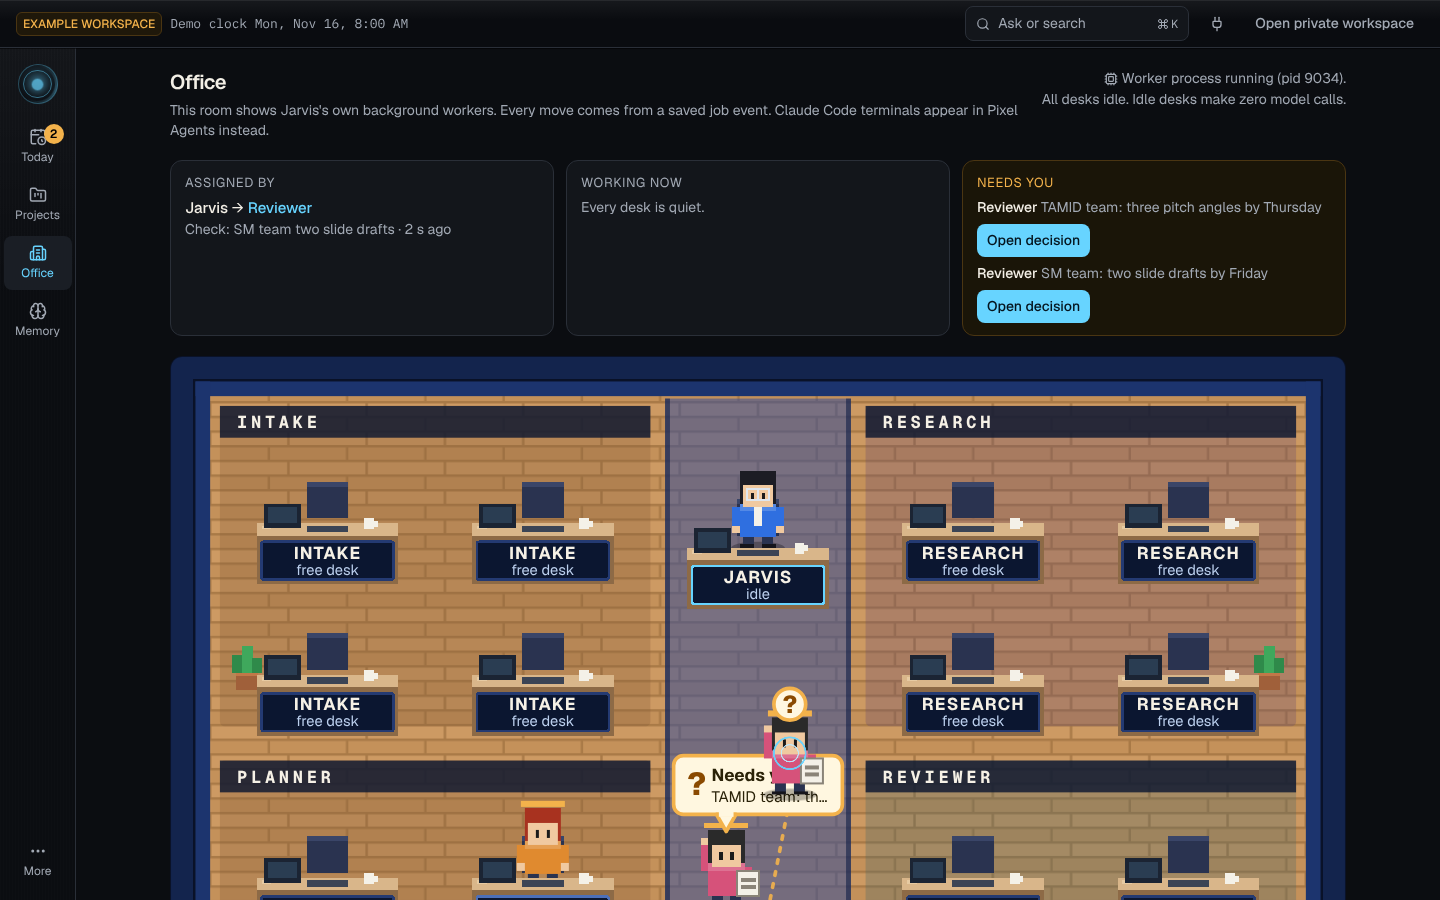
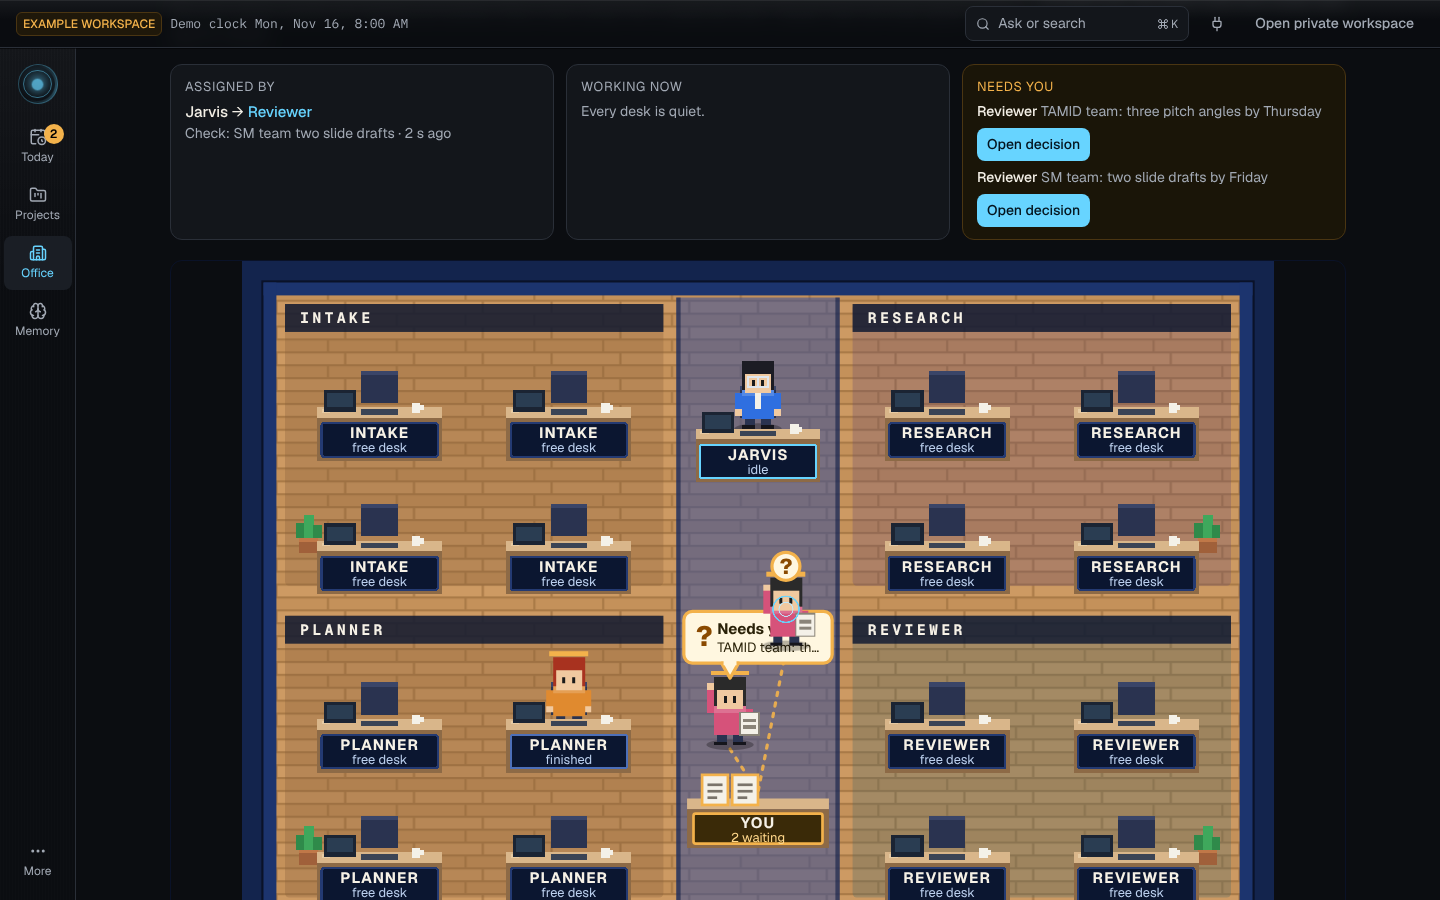
Office fits the viewport, outcome wording, redesign notes, MORNING handoff, before/after and size screenshots
Claude-Session: https://claude.ai/code/session_01LVTA14dv2q5dUimpnS7hsM

diff --git a/src/lib/outcomes.ts b/src/lib/outcomes.ts
@@ -4,6 +4,7 @@ import { Ctx, all, get } from "./db";
 
 export interface Outcome { id: string; at: string; source: "agent" | "claude" | "you" | "task"; status: "verified" | "waiting" | "done" | "failed" | "cancelled"; goal: string; result: string; receipt: string | null; href: string }
 
+const PHRASE: Record<string, string> = { decide: "decided", option: "option for", fact: "noted", action: "to do:", question: "open question:", retract: "withdrew" };
 export function outcomes(ctx: Ctx, limit = 20): Outcome[] {
   const out: Outcome[] = [];
   for (const j of all(ctx.db, "SELECT * FROM jobs WHERE owner_id=? AND parent_id IS NULL AND status IN ('done','failed','cancelled','blocked') ORDER BY COALESCE(finished_at, created_at) DESC LIMIT ?", ctx.owner, limit)) {
@@ -24,7 +25,7 @@ export function outcomes(ctx: Ctx, limit = 20): Outcome[] {
   }
   for (const e of all(ctx.db, "SELECT e.event_id, e.origin, e.at, e.resulting_revision rev, e.receipt, p.name, p.id pid FROM project_events e JOIN projects p ON p.id=e.project_id WHERE e.owner_id=? AND e.undone_at IS NULL ORDER BY e.at DESC LIMIT ?", ctx.owner, limit)) {
     const r = JSON.parse(e.receipt as string); const n = (r.changes ?? []).filter((c: any) => c.status !== "retracted").length;
-    out.push({ id: e.event_id as string, at: e.at as string, source: e.origin === "claude" ? "claude" : "you", status: "done", goal: `${e.name}`, result: `${e.origin === "claude" ? "Updated from Claude" : "Edited in Jarvis"}: ${r.changes.map((c: any) => `${c.op} ${String(c.key).replace(/-/g, " ")}`).join(", ")}.`, receipt: `Revision ${e.rev}, ${n} change${n === 1 ? "" : "s"}`, href: `/projects/${e.pid}` });
+    out.push({ id: e.event_id as string, at: e.at as string, source: e.origin === "claude" ? "claude" : "you", status: "done", goal: `${e.name}`, result: `${e.origin === "claude" ? "" : "Edited in Jarvis: "}${r.changes.map((c: any) => `${PHRASE[c.op] ?? c.op} ${String(c.key).replace(/-/g, " ")}`).join(", ")}.`.replace(/^./, (c: string) => c.toUpperCase()), receipt: `Revision ${e.rev}, ${n} change${n === 1 ? "" : "s"}`, href: `/projects/${e.pid}` });
   }
   for (const t of all(ctx.db, "SELECT id,title,completed_at FROM tasks WHERE owner_id=? AND status='done' AND completed_at IS NOT NULL ORDER BY completed_at DESC LIMIT ?", ctx.owner, limit))
     out.push({ id: t.id as string, at: t.completed_at as string, source: "task", status: "done", goal: String(t.title), result: "Marked done.", receipt: null, href: `/completed` });

diff --git a/src/lib/projects.ts b/src/lib/projects.ts
@@ -62,8 +62,12 @@ export function projectContext(ctx: Ctx, ref: string) {
   const options = live.filter((f) => f.status === "option"); const suggestions = live.filter((f) => f.status === "suggested");
   const history = rows.filter((f) => ["superseded", "retracted"].includes(f.status));
   const sources = all(ctx.db, "SELECT event_id, origin, client, at, resulting_revision rev FROM project_events WHERE project_id=? AND undone_at IS NULL ORDER BY at DESC, rowid DESC LIMIT 12", p.id);
-  const answer = [current.length ? `Current: ${current.map((f) => `${f.key.replace(/-/g, " ")}: ${f.text} (${f.origin}, rev ${f.revision}, ${f.asOf.slice(0, 10)})`).join("; ")}.` : "Nothing is decided yet.",
-    options.length ? `Open options: ${options.map((f) => f.text).join("; ")}.` : "", history.some((f) => f.status === "superseded" && f.kind !== "option") ? `Earlier: ${history.filter((f) => f.status === "superseded" && f.kind !== "option").map((f) => `${f.text} (replaced)`).join("; ")}.` : "",
+  const label = (k: string) => k.replace(/-/g, " ").replace(/^./, (c) => c.toUpperCase());
+  const byKey = new Map<string, string[]>(); for (const o of options) byKey.set(o.key, [...(byKey.get(o.key) ?? []), o.text]);
+  const earlier = history.filter((f) => f.status === "superseded" && f.kind !== "option");
+  const answer = [current.length ? current.map((f) => `${label(f.key)}: ${f.text}.`.replace(/\.\.$/, ".")).join(" ") : "Nothing is decided yet.",
+    byKey.size ? [...byKey].map(([k, v]) => `Still deciding ${k.replace(/-/g, " ")}: ${v.join(" or ")}.`).join(" ") : "",
+    earlier.length ? `Earlier: ${earlier.map((f) => `${f.text} (replaced)`).join("; ")}.` : "",
     suggestions.length ? `Waiting for your confirmation: ${suggestions.map((f) => f.text).join("; ")}.` : ""].filter(Boolean).join(" ");
   return { project: { id: p.id as string, name: p.name as string, slug: p.slug as string, kind: p.kind as string, revision: p.revision as number, updatedAt: p.updated_at as string, lastOrigin: p.last_origin as string | null, course: p.course as string | null },
     workspace: workspaceIdentity(ctx), current, options, suggestions, actions: cur(["action"]), questions: cur(["question"]), history, sources, answer };

diff --git a/src/components/OfficeScene.tsx b/src/components/OfficeScene.tsx
@@ -185,7 +185,7 @@ export function OfficeScene({ jobs, pendingDecisions, selected, onSelect, onOpen
   const pathD = (pts: Pt[]) => pts.map((q, i) => `${i ? "L" : "M"}${q.x} ${q.y}`).join(" ");
 
   return (
-    <svg viewBox={`0 0 ${W} ${H}`} className="w-full h-auto rounded-xl border border-[#0a1228]" role="group" aria-label="The Jarvis office. Cyan lines show who assigned work, nameplates say who is working, and amber question bubbles show who needs you. The same workers are listed below." data-testid="office-scene">
+    <svg viewBox={`0 0 ${W} ${H}`} className="w-full h-auto max-h-[calc(100dvh-210px)] min-h-[420px] rounded-xl border border-[#0a1228]" role="group" aria-label="The Jarvis office. Cyan lines show who assigned work, nameplates say who is working, and amber question bubbles show who needs you. The same workers are listed below." data-testid="office-scene">
       <defs>
         <pattern id="planks" width="64" height="24" patternUnits="userSpaceOnUse"><rect width="64" height="24" fill="#c4915a" /><rect width="64" height="2" fill="#a97a47" /><rect x="0" y="12" width="64" height="12" fill="#cd9a63" /><rect x="31" y="12" width="2" height="12" fill="#a97a47" /><rect x="15" y="0" width="2" height="12" fill="#a97a47" /><rect y="12" width="64" height="2" fill="#a97a47" /></pattern>
       </defs>

diff --git a/scripts/e2e.ts b/scripts/e2e.ts
@@ -44,7 +44,7 @@ function watch(page: Page, label: string) {
   page.on("requestfailed", (r) => { if (!/_next\/webpack-hmr|\.map$/.test(r.url()) && !/ERR_ABORTED/.test(r.failure()?.errorText ?? "") && !(restarting && /ERR_CONNECTION_REFUSED/.test(r.failure()?.errorText ?? ""))) problems.push(`requestfailed(${label}): ${r.url()} ${r.failure()?.errorText}`); });
   page.on("response", (r) => { if (r.status() >= 400 && !r.url().includes("/__expect")) problems.push(`http ${r.status()}(${label}): ${r.request().method()} ${r.url()}`); });
 }
-const shot = (page: Page, name: string) => page.screenshot({ path: path.join(SHOTS, name), fullPage: false });
+const shot = async (page: Page, name: string) => { await page.evaluate(() => { (document.querySelector('[data-testid="handoff-strip"]') ?? document.querySelector("h1"))?.scrollIntoView({ block: "start" }); window.scrollBy(0, -64); }).catch(() => {}); return page.screenshot({ path: path.join(SHOTS, name), fullPage: false }); };
 const post = (p: string, body: unknown) => fetch(`${base}/api${p}`, { method: "POST", headers: { "content-type": "application/json", origin: base }, body: JSON.stringify(body) });
 
 async function journeyDesktop(ctx: BrowserContext) {

diff --git a/MORNING.md b/MORNING.md
@@ -1,6 +1,77 @@
 # MORNING
 
-Branch `claude/upbeat-cannon-wf5kxf`. No pull request. This file has two parts: **Addendum build** (this round), then **Overnight build** (unchanged, further down).
+Branch `claude/upbeat-cannon-wf5kxf`. No pull request. This file has three parts: **Redesign build** (this round), **Addendum build**, then **Overnight build** (both unchanged, further down).
+
+# Redesign build: Claude and Jarvis share projects, and the Office shows the handoff
+
+## Launch
+```bash
+git fetch origin claude/upbeat-cannon-wf5kxf && git checkout claude/upbeat-cannon-wf5kxf
+npm install && npm run dev
+```
+Open **http://127.0.0.1:3000**. (If you installed from a ZIP, use the upgrade steps below instead of `git`.)
+
+## The first three clicks
+1. **Office** → **Send as synthetic Claude message**. Look only at the room. A cyan line runs from the Jarvis desk down the aisle to the **Planner**, who types at a desk (who assigned it, who is working). The **Reviewer** then checks the plan and walks to the **YOU** desk with a paper and an amber question bubble (who needs you). The strip above the room says the same in words.
+2. **Projects** → open a project. This is the page Claude reads and writes through the connector. Every item says where it came from.
+3. **Connections** → run the two-way check. This is the only thing that proves your own Claude account reaches Jarvis.
+
+## Was live ordinary Claude used? No.
+Nothing in this round touched a Claude account, a live model, a microphone or a public server. The connector is tested with the official MCP SDK client, in process and against the running production server, using a real token created in the UI. That proves the code path. **It does not prove your account can reach your Jarvis.** The exact pending steps are under "Needs Yonathan" below.
+
+## Upgrade your existing ZIP-installed Mac copy without losing data
+Pulling the branch on GitHub does not change the folder you downloaded. Pick one.
+
+**Data-preserving upgrade (recommended).** Download the new ZIP, unzip it **next to** the old folder, then:
+```bash
+cd ~/Downloads/Jarvis-new            # the newly unzipped folder
+npm install
+npm run backup -- adopt ~/Downloads/Jarvis-old/data
+npm run dev
+```
+`adopt` reads the old folder (it is never modified), copies your personal and example data and your vault files, upgrades the copy's database, runs an integrity check and prints what it kept. If this folder already holds personal data it stops and tells you; `--force` keeps the existing data aside first. Keep the old folder until you have looked around.
+
+**Back up first, any time:**
+```bash
+npm run backup                              # writes ../jarvis-backups/jarvis-<time>/ and verifies it
+npm run backup -- verify ../jarvis-backups/jarvis-<time>
+npm run backup -- restore ../jarvis-backups/jarvis-<time>   # copies what is there aside first
+```
+
+**Clean start (throw away the example data, keep nothing):** unzip the new ZIP somewhere new, `npm install`, `npm run dev`. The private workspace starts empty.
+
+If your old copy is the original ZIP and you cannot find a `data` folder inside it, you never saved anything privately; a clean start loses nothing.
+
+## What changed
+- **Projects (Claude ↔ Jarvis).** Two new connector tools: `get_project_context` and `apply_project_update`. A project keeps current decisions, open options, open questions and dated history apart. Every write is an event with an id, origin, expected revision and a receipt that names the workspace. Replays return the same receipt and write nothing. A stale update (you edited since Claude read) is refused and returns the current state instead of overwriting you. An out-of-order older message never replaces a newer decision. Similar project names are never merged; an ambiguous or unknown name is refused. Tentative wording waits for your confirmation. "Off the record" saves nothing. Forgetting erases the text from everything Claude can read.
+- **Golden Iceland scenario** is a regression test (`tests/projects.test.ts`, `tests/connect.test.ts`): options, a decision that settles them, a changed mind, replay, out-of-order, stale patch, a second similar project, forget, new Claude session, your edit read back.
+- **Connector security.** Tokens are created in Jarvis, shown once, stored only as a hash, scoped (read, or read + save), optionally expiring, rotatable and revocable (a revoked token stops working inside an open session). Rate limited. Never in a URL, the database, logs or the API list. `JARVIS_MCP_TOKEN` still works.
+- **Hosted connector files.** `deploy/` (Dockerfile, compose, Caddyfile, README) puts only `/mcp` and `/healthz` on the internet over HTTPS; the app returns 404 for everything else (`JARVIS_PUBLIC_MODE=mcp-only`, `src/proxy.ts`), and the private app stays on loopback. One database serves both. **Not deployed or run against a server.**
+- **Office.** A new Jarvis-owned pixel room (plank floor, navy walls, paired desks, plants, aisle), characters that walk the aisle to desks, type or read, a cyan assignment trace, an arrival ring, an amber question bubble, a YOU desk. Plus the handoff strip, a contextual inspector and a mobile roster. Details and the Pixel Agents evaluation: `docs/REDESIGN-NOTES.md`.
+- **Reviewer + verification loop.** Planner finishes, Reviewer verifies, then one decision with the checks attached. One retry, then plain words to you.
+- **Shell.** Four places: Today, Projects, Office, Memory. Everything else under More and in the command palette (⌘K). The permanent right panel is gone; Today shows decisions beside it only when something needs you. Ink background, warm off-white text, a single cool signal color, a restrained metal highlight, Geist + IBM Plex Mono, working text at least 14px. The assistant light (idle / listening / speaking) follows the real microphone and speech playback.
+- **Today** answers "what matters, what are the agents doing, where did the output go". **Activity and outcomes** lists goal → result → receipt; Completed is linked from there and keeps its address.
+- **Memory** gives a current answer and why, then pin, edit, move, merge, supersede, one-step undo and forget.
+
+## Verification
+| Check | Result |
+|---|---|
+| `npm run typecheck` | clean |
+| `npm test` | **142 tests**, all pass (was 118) |
+| `npm run build` | passes |
+| `npm run e2e` | **229 checks, 0 problems** (was 199): real Chromium on the production server, including the handoff, Projects, the connector, the two-way check, revoke, and axe-core on every page |
+| Upgrade | a schema-3 database with real rows is adopted: rows, search index and vault files preserved, old folder byte-for-byte unchanged |
+| Contrast | AA on the new tokens (`tests/contrast.test.ts`); axe-core on every page, desktop and phone |
+
+Screenshots: `docs/screenshots/` (after, from the browser suite), `docs/screenshots/before/` (the previous release) and `docs/screenshots/sizes/` (13-inch 1280x800, wide 1920x1080 and a 390px phone: Today, Office, Projects, Memory, Connections). I looked at them for overlap, tiny characters and stranded controls. Findings fixed: the YOU desk fell below the fold at 13-inch (the room now fits the viewport height) and stacked question bubbles overlapped (only the first waiting worker shows a bubble; the rest show a "?" badge). Known: on a phone the pixel room is replaced by the handoff strip and roster, because characters would be unreadably small there.
+
+## Needs Yonathan
+1. **Your Office screenshot did not arrive.** I built from the written description and say so. Send it and I will compare at the same scale and adjust.
+2. **See real Claude Code sessions in the official Pixel Agents office.** In a terminal on your Mac: `npx pixel-agents --host 127.0.0.1 --port 3100`, open the printed address (it has a secret `?token=`; do not share it), then start `claude` in another terminal. It edits hook configuration under `~/.claude` (it says so); that is why I did not run it for you. Jarvis's own background workers will not appear there. That is expected and labeled.
+3. **Prove ordinary Claude reaches Jarvis.** Deploy `deploy/` (or use Claude Desktop with `npm run mcp`), add the connector, run Connections → the two-way check. Whether your Claude plan accepts a fixed `Authorization` header on a custom connector is not confirmed.
+4. Hosting, domain, any cost, and any public exposure are yours to decide.
+5. Paid model calls remain off. Nothing here needs a key.
+
 
 # Addendum build: Office, capture, and the spoken BI107 guide
 

diff --git a/docs/REDESIGN-NOTES.md b/docs/REDESIGN-NOTES.md
@@ -1,0 +1,23 @@
+# Redesign notes
+
+## Visual references: what was and was not used
+- **Owner's Office screenshot: not received.** No image reached this session (no upload in the conversation or the attachment folder). The Office scene follows the brief's written description of it instead: warm plank floor, navy perimeter, paired workstations with plants and monitors, oversized characters, compact high-contrast nameplates, a clear center aisle. The comparison "populated desktop screenshot against the reference at the same scale" **could not be done**. When the image arrives, colors, sprites and desk layout are constants at the top of `src/components/OfficeScene.tsx` and are meant to be revised.
+- No Jarvis character image was supplied. The assistant light is original (`src/components/Orb.tsx`, tokens in `globals.css`).
+- Cues adopted from the written direction: *composition* (aisle in the middle, rooms either side), *materials* (plank floor, navy wall, brushed-metal highlight in the app chrome), *contrast* (nameplates are off-white on navy), *motion* (walk along the aisle, tap/read poses, a cyan trace on assignment, an amber question bubble), *silhouette* (large heads, flat shirt colors per role).
+
+## Pixel Agents (Pablo De Lucca): what was evaluated
+- Listing: `pablodelucca.pixel-agents` on the VS Code Marketplace; the same project ships a standalone browser edition as the npm package `pixel-agents` (v1.6.0 at the time of reading, Node 20+). Code license: MIT (read from the repository's LICENSE). **Art license was not verified.** The character art credits a third-party pack (JIK-A-4, Metro City). Nothing from Pixel Agents is bundled or copied here; the Jarvis scene is drawn from scratch in SVG.
+- The marketplace page itself could not be fetched from the build environment (network policy). The README and npm metadata were used.
+- **Not run here.** The standalone edition reads Claude Code session files and installs hook configuration under `~/.claude` on the machine it runs on. The build environment's permission check refused that, correctly, so it was not worked around. The "real Claude Code session appearing in the official office" proof is **pending on the Mac**: steps are in `MORNING.md`.
+- **Integration point for Jarvis jobs: none found.** The documented surface is Claude Code hooks and transcripts. There is no documented way for another app to publish its own jobs. So, as the brief allows: the Office page is a Jarvis-owned scene for Jarvis background workers, and an **Open Pixel Agents** panel on the same page explains how to launch the official office for terminal sessions on its own loopback port (`npx pixel-agents --host 127.0.0.1 --port 3100`). The two views are labeled with what they cover. A Jarvis job is never presented as a Claude Code terminal.
+- The access token Pixel Agents prints (`?token=`) is never stored or logged by Jarvis.
+
+## Handoff: how the room answers the three questions
+Everything is derived from saved job rows (`officeState` in `src/lib/jobs.ts`), polled once a second.
+- **Who assigned it:** a bright cyan trace runs from the Jarvis desk down the aisle to the assigned desk for about seven seconds after the job is created (`createdAgoMs`), then settles to a thin dotted tether while the worker is still on it. A ring pops at the worker the moment it is created. The strip above the room says "Jarvis → Planner" in words.
+- **Who is working:** a seated character at a desk with a nameplate (role and live step, such as "typing · 2 of 4" or "reading"). Idle desks say "free desk"; an idle office is quiet and makes zero model calls.
+- **Who needs you:** a character stands at the YOU desk holding a paper with an amber question bubble; an amber dashed line joins them to your desk; your nameplate says how many are waiting; the strip lists them with an action button. "Needs you" is only ever a blocked question or an unanswered decision.
+- Reduced motion keeps all of this and drops the movement. The scene has a text equivalent (strip and roster) and labeled, keyboard-focusable characters.
+
+## Verification loop
+Capture handling is now observe → delegate → verify → complete / retry once / hand to you. The supervisor assigns a Planner; when it finishes, a Reviewer checks the artifact (commitment exists once, work item and due date, plan against the calendar) and only then raises the single decision, with the checks attached as evidence. A gap sends the work back once; a gap that survives is handed to you in plain words. Two rounds at most; deterministic, zero model calls.
